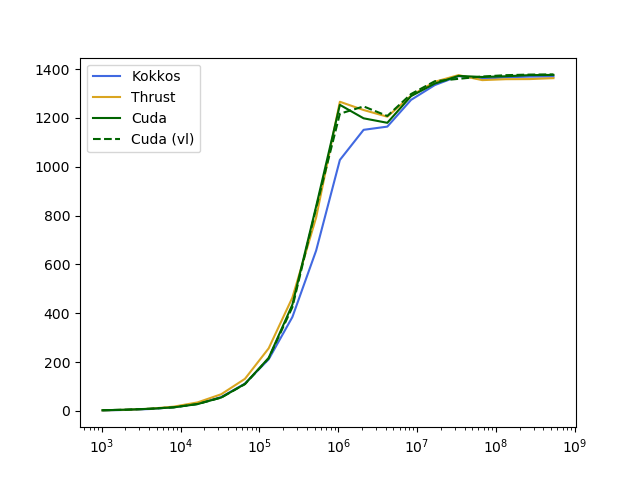
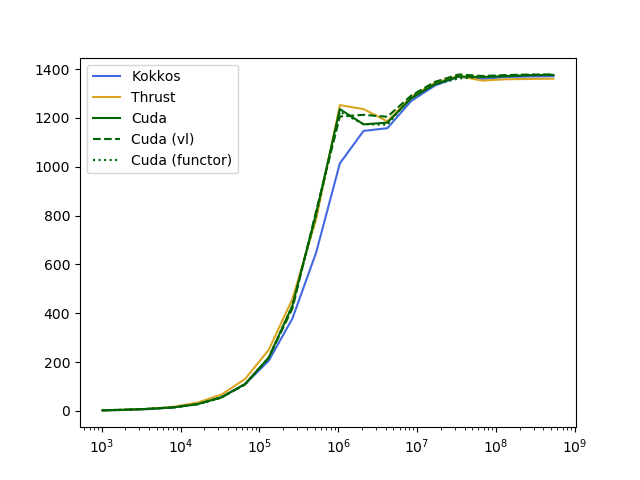
Update benchmark02

Changed region(s): [[0.3125, 0.1562, 0.7812, 0.8438], [0.125, 0.3125, 0.375, 0.3438]]

diff --git a/benchmark02/benchmark02.cc b/benchmark02/benchmark02.cc
@@ -57,6 +57,19 @@ __global__ void add_vector(T *x, T *y, unsigned int n)
     }
 }
 
+template <typename Functor>
+__global__ void vector_kernel(const unsigned int begin, const unsigned int end,
+                              Functor functor)
+{
+    unsigned int i = begin + blockDim.x * blockIdx.x + threadIdx.x;
+
+    while (i < end)
+    {
+        functor(i);
+        i += blockDim.x * gridDim.x;
+    }
+}
+
 template <typename T> void run_test(const unsigned int size)
 {
     Timer time;
@@ -113,9 +126,8 @@ template <typename T> void run_test(const unsigned int size)
             time_thrust = std::min(time_thrust, time.elapsedSeconds());
         }
         result_thrust = thrust::transform_reduce(
-            ddata1.begin(), ddata1.end(),
-            [] __device__(const T &x) { return x * x; }, (T)0.0,
-            thrust::plus<T>());
+            ddata1.begin(), ddata1.end(), [] __device__(const T &x)
+            { return x * x; }, (T)0.0, thrust::plus<T>());
     }
 
     // CUDA kernels 1 - No vector loading
@@ -190,21 +202,61 @@ template <typename T> void run_test(const unsigned int size)
         cudaFree(cuda_vector2);
     }
 
+    // CUDA kernels 3 - functor
+    double time_cuda3 = std::numeric_limits<double>::max();
+    T result_cuda3;
+    {
+        const int threads = 1024;
+        const int blocks  = ((size / 8 + threads - 1) / threads);
+        std::vector<T> host_vector1(size), host_vector2(size);
+        for (unsigned int i = 0; i < size; ++i)
+        {
+            host_vector1[i] = i % 13 + (0.2 + 0.00001 * (i % 100191));
+            host_vector2[i] = i % 8 + (0.4 + 0.00003 * (i % 100721));
+        }
+        T *cuda_vector1, *cuda_vector2;
+        cudaMalloc(&cuda_vector1, size * sizeof(T));
+        cudaMalloc(&cuda_vector2, size * sizeof(T));
+        cudaMemcpy(cuda_vector1, &host_vector1[0], size * sizeof(T),
+                   cudaMemcpyHostToDevice);
+        cudaMemcpy(cuda_vector2, &host_vector2[0], size * sizeof(T),
+                   cudaMemcpyHostToDevice);
+        for (unsigned int t = 0; t < n_tests; ++t)
+        {
+            time.start();
+            vector_kernel<<<blocks, threads>>>(
+                0u, size, [=] __device__(unsigned int i)
+                { cuda_vector1[i] += cuda_vector2[i]; });
+            cudaDeviceSynchronize();
+            time.stop();
+            time_cuda3 = std::min(time_cuda3, time.elapsedSeconds());
+        }
+        result_cuda3 = thrust::transform_reduce(
+            thrust::device, cuda_vector1, cuda_vector1 + size,
+            [] __device__(const T &x) { return x * x; }, (T)0.0,
+            thrust::plus<T>());
+        cudaFree(cuda_vector1);
+        cudaFree(cuda_vector2);
+    }
+
     // Display results
     std::cout << std::setprecision(10);
     std::cout << "Size " << size
-              << " Case:     Kokkos      Thrust      Cuda        Cuda (vl)"
+              << " Case:     Kokkos      Thrust      Cuda        Cuda (vl)     "
+                 "   Cuda (functor)"
               << std::endl;
     std::cout << "Size " << size << " norm: " << std::sqrt(result_kokkos) << " "
               << std::sqrt(result_thrust) << " "
               << " " << std::sqrt(result_cuda1) << " "
-              << std::sqrt(result_cuda2) << std::endl;
+              << std::sqrt(result_cuda2) << " " << std::sqrt(result_cuda3)
+              << std::endl;
 
     std::cout << "Size " << size
               << " GB/s: " << sizeof(T) * 3e-9 * size / time_kokkos << " "
               << sizeof(T) * 3e-9 * size / time_thrust << " "
               << sizeof(T) * 3e-9 * size / time_cuda1 << " "
-              << sizeof(T) * 3e-9 * size / time_cuda2 << std::endl;
+              << sizeof(T) * 3e-9 * size / time_cuda2 << " "
+              << sizeof(T) * 3e-9 * size / time_cuda3 << std::endl;
 }
 
 int main(int argc, char **argv)

diff --git a/benchmark02/postprocess.py b/benchmark02/postprocess.py
@@ -9,11 +9,11 @@ for fname in glob.glob('./*.log'):
     for line in lines:
         if "Size" in line and "GB/s" in line: data.append(line)
 
-    labels = ["Kokkos", "Thrust", "Cuda", "Cuda (vl)"]
+    labels = ["Kokkos", "Thrust", "Cuda", "Cuda (vl)", "Cuda (functor)"]
     nelmts = [float(line.split()[1]) for line in data]
     GBs    = [[float(GB) for GB in line.split()[3:]] for line in data]
-    colors = ["royalblue", "goldenrod", "darkgreen", "darkgreen"]
-    linestyles = ["-",  "-", "-", "--"]
+    colors = ["royalblue", "goldenrod", "darkgreen", "darkgreen", "darkgreen"]
+    linestyles = ["-",  "-", "-", "--", ":"]
 
     plt.figure()
     for i in range(0, len(GBs[0])):
